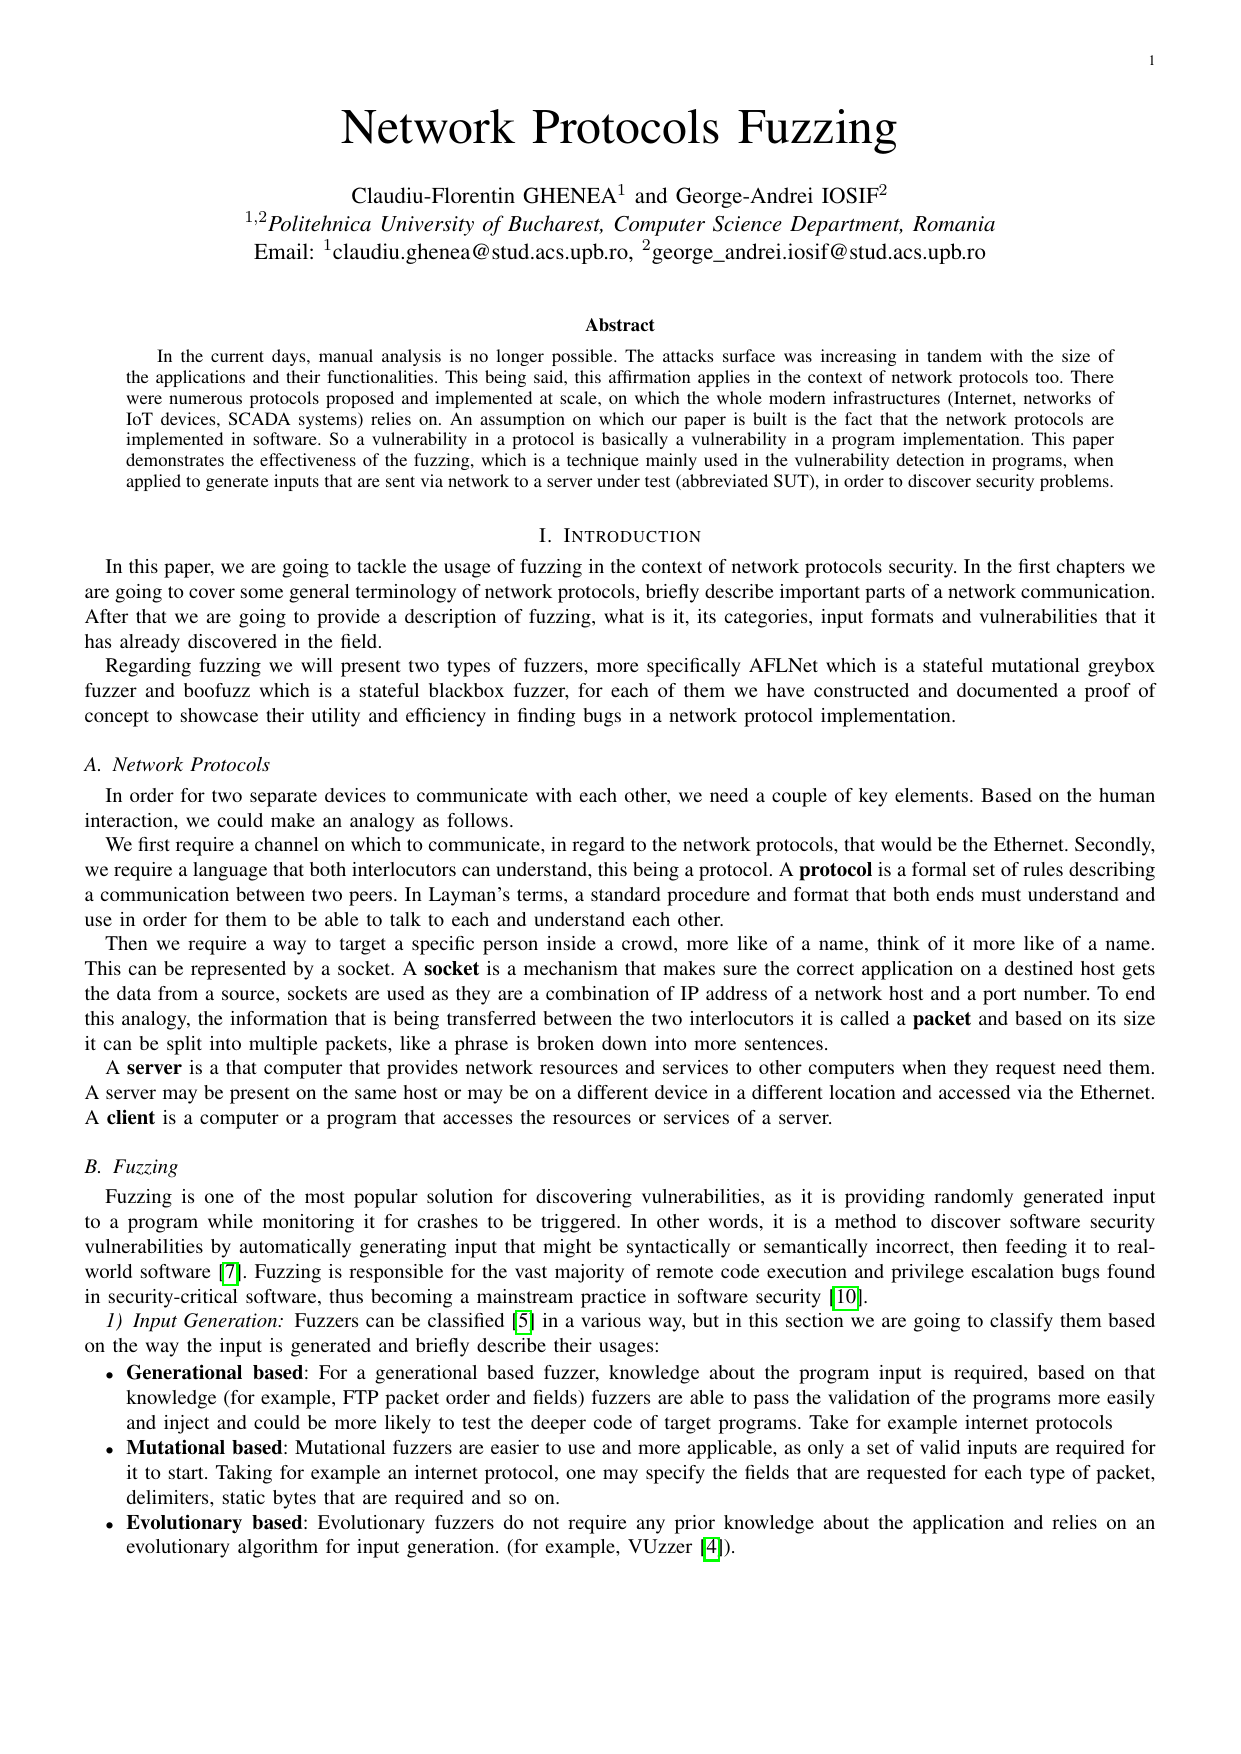
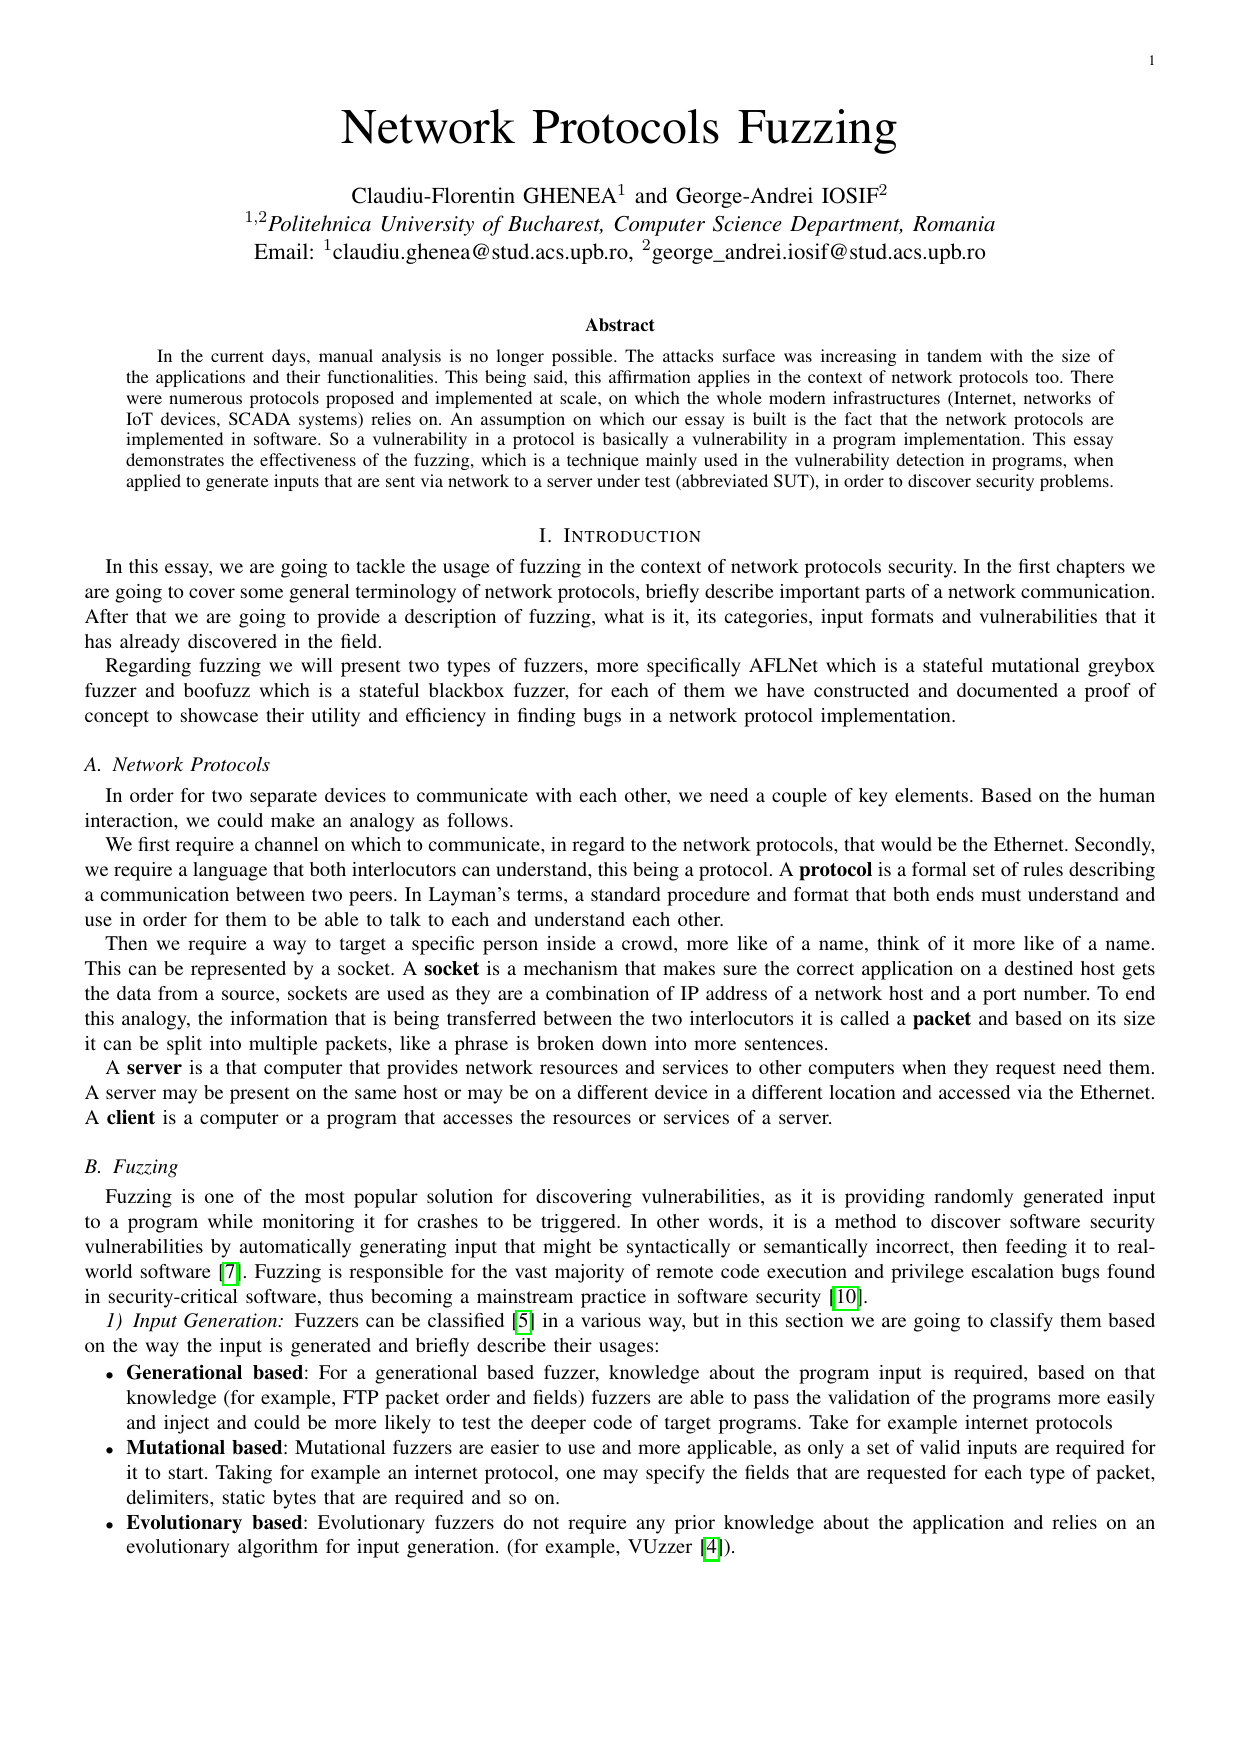
Modifies some minor aspects of the essay
Only modifies minor aspects of the essay, namely some wordings from
the document and some emojis in the README.md.

diff --git a/essay/project/main.tex b/essay/project/main.tex
@@ -40,13 +40,13 @@ Email: $^{1}$claudiu.ghenea@stud.acs.upb.ro, $^{2}$george\_andrei.iosif@stud.acs
 
 \begin{abstract}
 
-In the current days, manual analysis is no longer possible. The attacks surface was increasing in tandem with the size of the applications and their functionalities. This being said, this affirmation applies in the context of network protocols too. There were numerous protocols proposed and implemented at scale, on which the whole modern infrastructures (Internet, networks of IoT devices, SCADA systems) relies on. An assumption on which our paper is built is the fact that the network protocols are implemented in software. So a vulnerability in a protocol is basically a vulnerability in a program implementation. This paper demonstrates the effectiveness of the fuzzing, which is a technique mainly used in the vulnerability detection in programs, when applied to generate inputs that are sent via network to a server under test (abbreviated SUT), in order to discover security problems.
+In the current days, manual analysis is no longer possible. The attacks surface was increasing in tandem with the size of the applications and their functionalities. This being said, this affirmation applies in the context of network protocols too. There were numerous protocols proposed and implemented at scale, on which the whole modern infrastructures (Internet, networks of IoT devices, SCADA systems) relies on. An assumption on which our essay is built is the fact that the network protocols are implemented in software. So a vulnerability in a protocol is basically a vulnerability in a program implementation. This essay demonstrates the effectiveness of the fuzzing, which is a technique mainly used in the vulnerability detection in programs, when applied to generate inputs that are sent via network to a server under test (abbreviated SUT), in order to discover security problems.
 
 \end{abstract}
 
 \section{Introduction}
 
-In this paper, we are going to tackle the usage of fuzzing in the context of network protocols security. In the first chapters we are going to cover some general terminology of network protocols, briefly describe important parts of a network communication. After that we are going to provide a description of fuzzing, what is it, its categories, input formats and vulnerabilities that it has already discovered in the field.
+In this essay, we are going to tackle the usage of fuzzing in the context of network protocols security. In the first chapters we are going to cover some general terminology of network protocols, briefly describe important parts of a network communication. After that we are going to provide a description of fuzzing, what is it, its categories, input formats and vulnerabilities that it has already discovered in the field.
 
 Regarding fuzzing we will present two types of fuzzers, more specifically AFLNet which is a stateful mutational greybox fuzzer and boofuzz which is a stateful blackbox fuzzer, for each of them we have constructed and documented a proof of concept to showcase their utility and efficiency in finding bugs in a network protocol implementation.
 
@@ -221,7 +221,7 @@ The last method for finding vulnerabilities in the network context is by formal 
 
 \section{Conclusions}
 
-This paper demonstrates that the fuzzing, a technique used mainly for finding vulnerabilities in binaries, can be used with success for finding vulnerabilities in network protocols. This is possible because the network protocols are, at their root, only a mean by which processes (from the same host, via internal sockets, or externally, in a LAN) communicates in a structured way.
+This essay demonstrates that the fuzzing, a technique used mainly for finding vulnerabilities in binaries, can be used with success for finding vulnerabilities in network protocols. This is possible because the network protocols are, at their root, only a mean by which processes (from the same host, via internal sockets, or externally, in a LAN) communicates in a structured way.
 
 We offered two proof of concepts: one targeting a custom protocol (replaying on TCP) from a custom application with a blackbox smart fuzzer, boofuz, and another targeting an open source embeddable web server with a graybox dumb fuzzer, AFLNet. In the latter case, as no vulnerability was discovered, we manually introduced a heap buffer overflow in the processing of the user agent. In both scenarios, the fuzzers were able to detect the deliberately-introduced vulnerabilities from SUTs.
 

diff --git a/README.md b/README.md
@@ -1,8 +1,8 @@
-# Network Protocols Fuzzing
+# Network Protocols Fuzzing Essay 📜
 
 ## Description 🖼
 
-This repository contains an essay about the **usage of fuzzing for finding vulnerabilities in network protocols**. This was created for a course from Faculty of Automatic Control and Computers, University POLITEHNICA of Bucharest, namely "*Security Protocols*".
+This repository contains an essay about the **usage of fuzzing for finding vulnerabilities in network protocols** and **two proofs of concept** for using **boofuzz** and **AFLNet** to exeplify this kind of attacks. The repository was created for a course from Faculty of Automatic Control and Computers, University POLITEHNICA of Bucharest, namely "*Security Protocols*".
 
 ## Folders Structure 📁
 
@@ -17,7 +17,7 @@ The folder structure is as follows:
 |--------------------------------------------------------------------------------------------------------------|--------------------------------------------------------------------------------------------------------------------------------------|
 | <a href="essay/essay.pdf"><kbd><img src="essay/preview.png" width="400px" alt="Essay preview"></kbd></a> | <a href="presentation/presentation.pdf"><kbd><img src="presentation/preview.png" width="400px" alt="Presentation preview"></kbd></a> |
 
-## Contributors
+## Contributors 🤝
 
 - Claudiu-Florentin GHENEA ([@Phineas09](https://github.com/Phineas09))
 - George-Andrei IOSIF ([@iosifache](https://github.com/iosifache))
